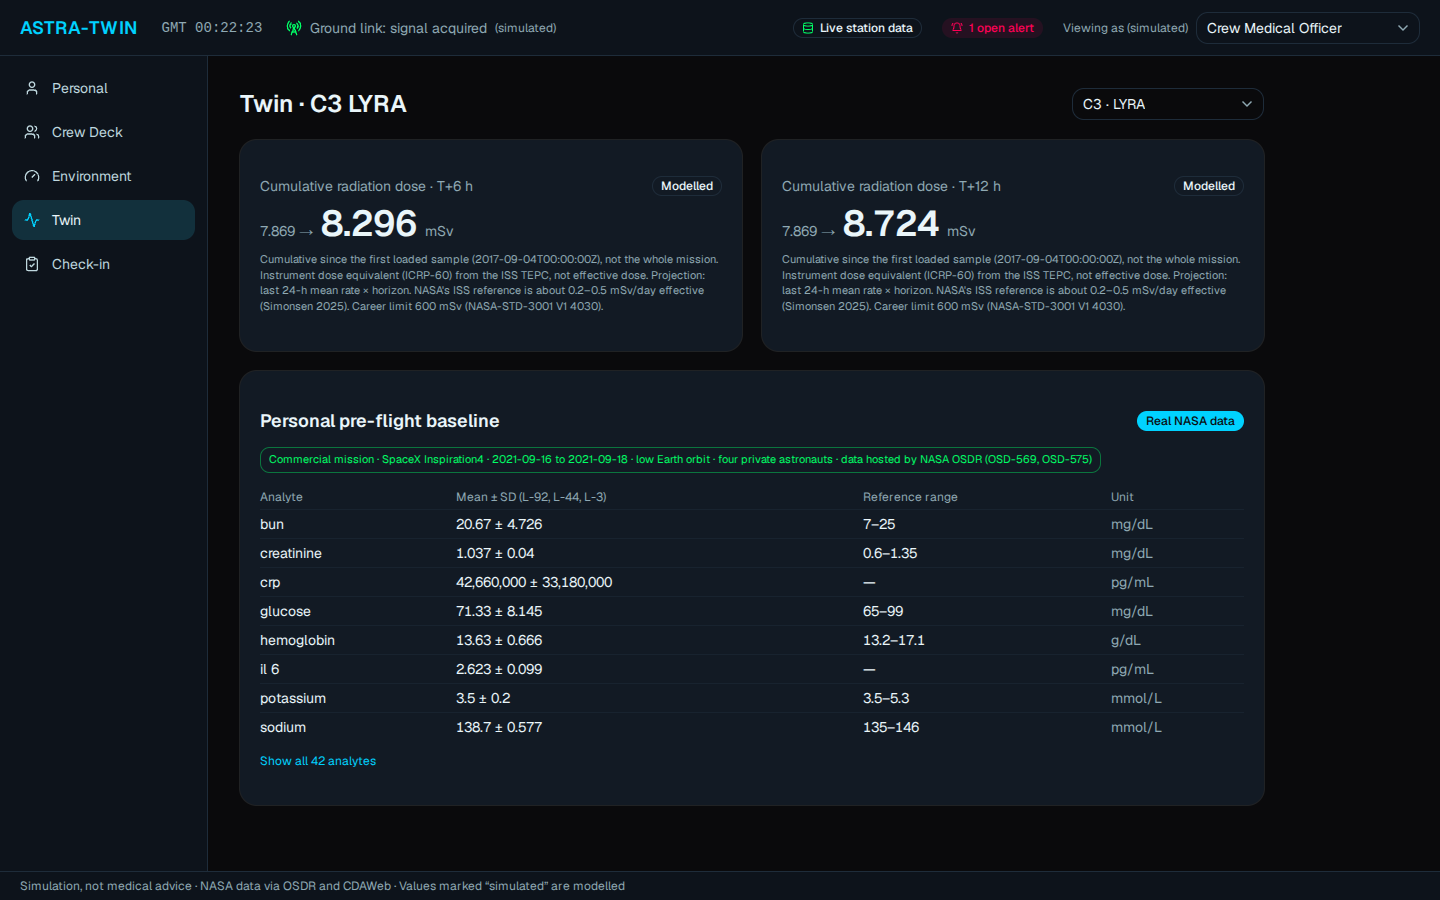
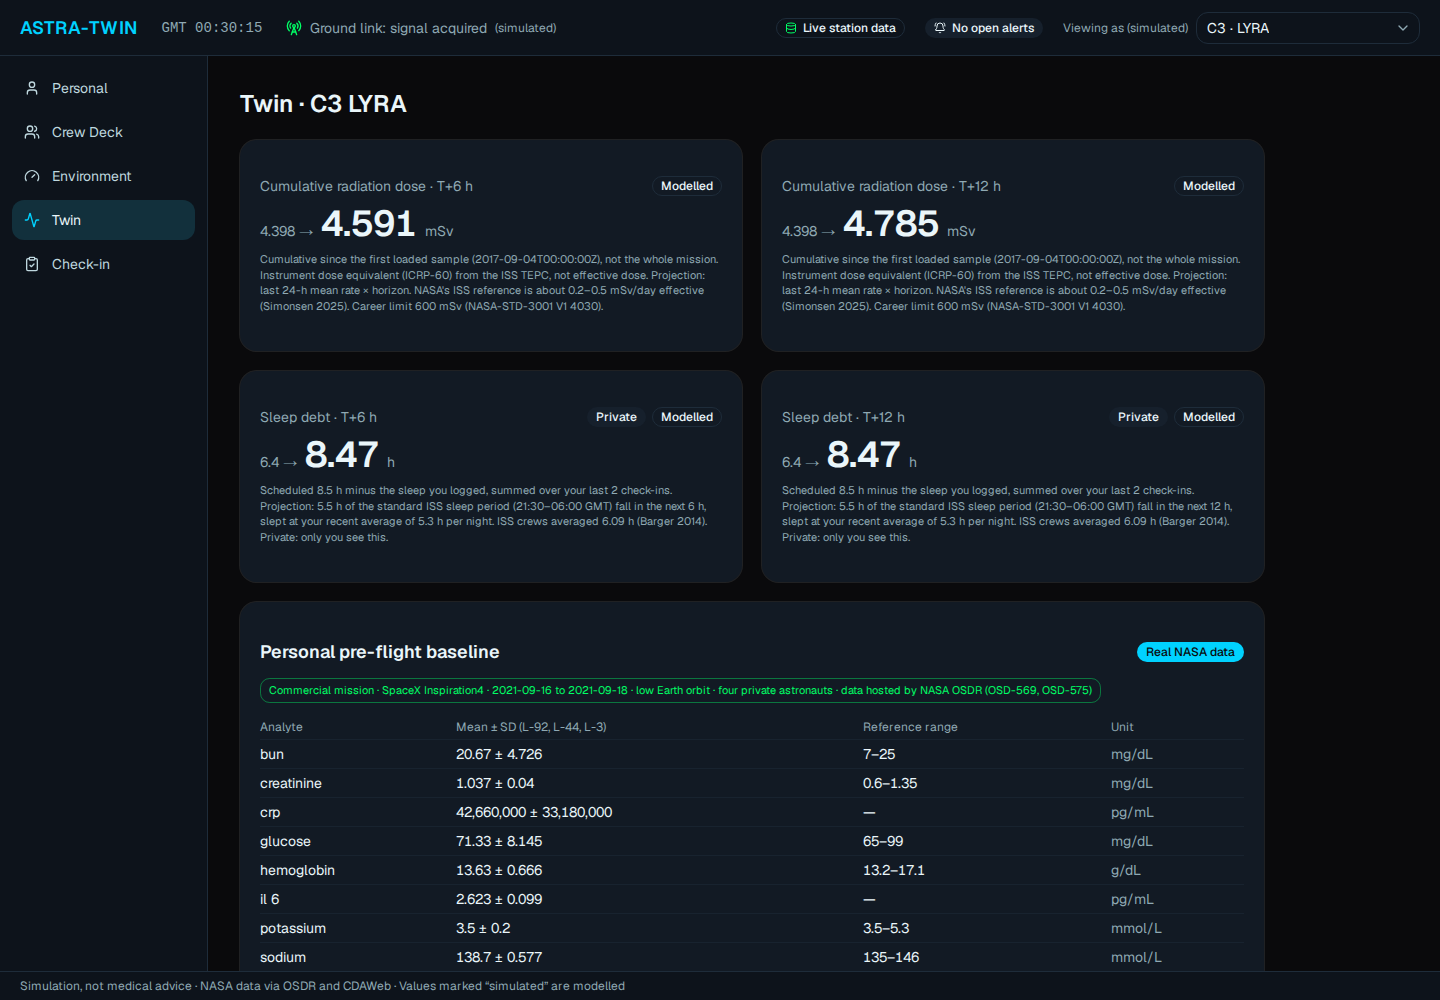
feat: private sleep-debt forecast in the Earth Twin (#63)
Sleep debt from the astronaut's own check-ins (scheduled 8.5 h vs logged sleep, last 7 check-ins), projected over the standard ISS sleep period 21:30-06:00 GMT at the recent average (Jones 2022; Barger 2014). Forecast models name their data kind; the forecasts route returns only the kinds the viewer may see, so sleep debt is SELF only. Closes #62.

diff --git a/frontend/src/screens/TwinScreen.tsx b/frontend/src/screens/TwinScreen.tsx
@@ -8,10 +8,18 @@ import { Select, SelectContent, SelectItem, SelectTrigger, SelectValue } from "@
 /** Analytes shown first; the rest are behind "all analytes". */
 const KEY_ANALYTES = ["glucose", "sodium", "potassium", "bun", "creatinine", "hemoglobin", "crp", "il_6"];
 
+/** Card title per forecast metric (backend twin models, BACKEND §3.2). */
+const FORECAST_TITLE: Record<string, string> = {
+  cumulative_dose: "Cumulative radiation dose",
+  sleep_debt: "Sleep debt",
+};
+/** Forecasts built from private check-ins: only the astronaut receives them. */
+const PRIVATE_METRICS = new Set(["sleep_debt"]);
+
 /** Four significant digits, thousands separated: 42656700 → 42,660,000. */
 const num = (v: number) => new Intl.NumberFormat("en-US", { maximumSignificantDigits: 4 }).format(v);
 
-/** Earth Twin: T+6 / T+12 forecasts (labelled modelled) and the personal pre-flight baseline. */
+/** Earth Twin: T+6 / T+12 forecasts (labelled modelled; sleep debt only for the astronaut) and the personal pre-flight baseline. */
 export function TwinScreen({ role, crew, station }: { role: ViewerRole; crew: CrewMember[]; station: StationView | null }) {
   const [picked, setPicked] = useState("C3");
   const crewId = role.kind === "astronaut" ? role.crewId : picked;
@@ -80,8 +88,13 @@ export function TwinScreen({ role, crew, station }: { role: ViewerRole; crew: Cr
           <Card key={`${f.metric}-${f.horizonHours}`}>
             <CardContent className="flex flex-col gap-2 p-5">
               <div className="flex items-center justify-between">
-                <p className="text-sm text-muted-foreground">Cumulative radiation dose · T+{f.horizonHours} h</p>
-                <Badge variant="outline">Modelled</Badge>
+                <p className="text-sm text-muted-foreground">
+                  {FORECAST_TITLE[f.metric] ?? f.metric.replace(/_/g, " ")} · T+{f.horizonHours} h
+                </p>
+                <div className="flex gap-1.5">
+                  {PRIVATE_METRICS.has(f.metric) && <Badge variant="secondary">Private</Badge>}
+                  <Badge variant="outline">Modelled</Badge>
+                </div>
               </div>
               <p className="flex items-baseline gap-2 tabular-nums">
                 <span className="text-sm text-muted-foreground">{f.points[0]?.value} →</span>

diff --git a/backend/api/src/main/java/astratwin/twin/SleepDebtModel.java b/backend/api/src/main/java/astratwin/twin/SleepDebtModel.java
@@ -1,0 +1,88 @@
+package astratwin.twin;
+
+import astratwin.domain.CheckIn;
+import astratwin.domain.CrewMember;
+import astratwin.domain.DataKind;
+import astratwin.domain.Forecast;
+import astratwin.domain.Forecast.ForecastPoint;
+import java.time.Duration;
+import java.time.Instant;
+import java.time.LocalDate;
+import java.time.LocalTime;
+import java.time.ZoneOffset;
+import java.util.List;
+import java.util.Locale;
+import java.util.Optional;
+
+/**
+ * Sleep debt (BACKEND §3.2): the scheduled 8.5 h per night minus the sleep logged in the
+ * astronaut's own check-ins, summed over the last 7 check-ins. The projection counts the part of
+ * the standard ISS sleep period (21:30–06:00 GMT, Jones 2022) that falls inside the horizon and
+ * assumes it is slept at the astronaut's recent average. Built from check-ins, so it is
+ * psychological data: only the astronaut sees it (BACKEND §6).
+ */
+public final class SleepDebtModel implements ForecastModel {
+    static final double SCHEDULED_HOURS = 8.5;
+    static final LocalTime SLEEP_START_GMT = LocalTime.of(21, 30);
+    static final int WINDOW = 7;
+    static final String SOURCE = "Your check-ins; Jones 2022, Sleep 45(3) zsac006 (ISS sleep period 21:30–06:00 GMT, "
+            + "8.5 h); Barger 2014, Lancet Neurol 13:904 (ISS mean 6.09 h)";
+
+    @Override
+    public String metric() {
+        return "sleep_debt";
+    }
+
+    @Override
+    public DataKind kind() {
+        return DataKind.PSYCH;
+    }
+
+    @Override
+    public Optional<Forecast> forecast(TwinContext context, CrewMember member, int horizonHours) {
+        List<CheckIn> mine = context.checkIns().stream().filter(c -> c.crewId().equals(member.id())).toList();
+        if (mine.isEmpty()) {
+            return Optional.empty();
+        }
+        List<CheckIn> recent = mine.subList(Math.max(0, mine.size() - WINDOW), mine.size());
+        double debt = recent.stream().mapToDouble(c -> Math.max(0, SCHEDULED_HOURS - c.sleepHours())).sum();
+        double average = recent.stream().mapToDouble(CheckIn::sleepHours).average().orElse(SCHEDULED_HOURS);
+        double shortfall = Math.max(0, 1 - average / SCHEDULED_HOURS);
+        Instant now = context.now();
+        double scheduled = scheduledSleepHours(now, now.plus(Duration.ofHours(horizonHours)));
+        double later = debt + scheduled * shortfall;
+        List<ForecastPoint> points = List.of(new ForecastPoint("T+0", round(debt)),
+                new ForecastPoint("T+" + horizonHours, round(later)));
+        String evidence = "Scheduled 8.5 h minus the sleep you logged, summed over your last " + recent.size()
+                + (recent.size() == 1 ? " check-in" : " check-ins") + ". Projection: " + fmt(scheduled)
+                + " h of the standard ISS sleep period (21:30–06:00 GMT) fall in the next " + horizonHours
+                + " h, slept at your recent average of " + fmt(average) + " h per night. ISS crews averaged 6.09 h "
+                + "(Barger 2014). Private: only you see this.";
+        return Optional.of(new Forecast(member.id(), horizonHours, metric(), "h", points, "modelled", evidence, SOURCE));
+    }
+
+    /** Hours of the scheduled sleep period (21:30–06:00 GMT every night) inside [from, to). */
+    public static double scheduledSleepHours(Instant from, Instant to) {
+        long seconds = 0;
+        LocalDate last = to.atZone(ZoneOffset.UTC).toLocalDate();
+        for (LocalDate day = from.atZone(ZoneOffset.UTC).toLocalDate().minusDays(1); !day.isAfter(last);
+                day = day.plusDays(1)) {
+            Instant start = day.atTime(SLEEP_START_GMT).toInstant(ZoneOffset.UTC);
+            Instant end = start.plus(Duration.ofMinutes(Math.round(SCHEDULED_HOURS * 60)));
+            Instant a = start.isAfter(from) ? start : from;
+            Instant b = end.isBefore(to) ? end : to;
+            if (b.isAfter(a)) {
+                seconds += Duration.between(a, b).toSeconds();
+            }
+        }
+        return seconds / 3600.0;
+    }
+
+    private static double round(double v) {
+        return Math.round(v * 100) / 100.0;
+    }
+
+    private static String fmt(double v) {
+        return String.format(Locale.ROOT, "%.1f", v);
+    }
+}

diff --git a/backend/api/src/test/java/astratwin/TwinTest.java b/backend/api/src/test/java/astratwin/TwinTest.java
@@ -1,0 +1,59 @@
+package astratwin;
+
+import astratwin.domain.CheckIn;
+import astratwin.domain.Forecast;
+import astratwin.domain.Viewer;
+import astratwin.privacy.ViewRequest;
+import astratwin.twin.SleepDebtModel;
+import astratwin.twin.TwinContext;
+import java.nio.file.Path;
+import java.time.Instant;
+import java.util.ArrayList;
+import java.util.List;
+import java.util.Map;
+
+/** Earth Twin forecasts (BACKEND §3.2) and who may see them (§6). */
+final class TwinTest {
+    private TwinTest() {
+    }
+
+    static void register(Map<String, TestRunner.Test> tests, Path cache) {
+        tests.put("twin: scheduled sleep period is 21:30–06:00 GMT", () -> {
+            Instant evening = Instant.parse("2026-11-15T20:00:00Z");
+            Check.equal(4.5, SleepDebtModel.scheduledSleepHours(evening, evening.plusSeconds(6 * 3600)), "20:00 +6 h");
+            Check.equal(8.5, SleepDebtModel.scheduledSleepHours(evening, evening.plusSeconds(12 * 3600)), "20:00 +12 h");
+            Instant morning = Instant.parse("2026-11-15T08:00:00Z");
+            Check.equal(0.0, SleepDebtModel.scheduledSleepHours(morning, morning.plusSeconds(6 * 3600)), "08:00 +6 h");
+            Instant night = Instant.parse("2026-11-15T03:00:00Z");
+            Check.equal(3.0, SleepDebtModel.scheduledSleepHours(night, night.plusSeconds(6 * 3600)), "03:00 +6 h");
+        });
+        tests.put("twin: sleep debt sums the last 7 check-ins and projects the recent average", () -> {
+            Station station = Station.load(cache);
+            List<CheckIn> checkIns = new ArrayList<>();
+            for (int day = 1; day <= 8; day++) {
+                // The first night is outside the 7-night window: its 0 h must not count.
+                checkIns.add(new CheckIn("C5", "2026-11-0" + day, 60, 40, 40, 10, day == 1 ? 0 : 6.5, "test"));
+            }
+            Instant evening = Instant.parse("2026-11-15T20:00:00Z");
+            Forecast f = new SleepDebtModel().forecast(new TwinContext(List.of(), List.of(), checkIns, evening),
+                    station.member("C5").orElseThrow(), 12).orElseThrow();
+            Check.equal("sleep_debt", f.metric(), "metric");
+            Check.equal("modelled", f.label(), "label");
+            Check.equal(14.0, f.points().get(0).value(), "T+0: 7 nights × (8.5 − 6.5) h");
+            Check.equal(16.0, f.points().get(1).value(), "T+12: one full night at 6.5 h adds 2 h");
+        });
+        tests.put("privacy: only the astronaut sees the sleep-debt forecast", () -> {
+            Station station = Station.load(cache);
+            List<Forecast> self = station.forecasts("C3", new ViewRequest(Viewer.SELF, "C3"));
+            Check.isTrue(self.stream().anyMatch(f -> f.metric().equals("sleep_debt")), "SELF must see its sleep debt");
+            Check.isTrue(self.stream().anyMatch(f -> f.metric().equals("cumulative_dose")), "SELF must see its dose");
+            Check.equal(2.9, self.stream().filter(f -> f.metric().equals("sleep_debt")).findFirst().orElseThrow()
+                    .points().get(0).value(), "C3 T+0 (8.5 − 5.6 h)");
+            for (Viewer viewer : new Viewer[] {Viewer.CMO, Viewer.GROUND, Viewer.EMERGENCY}) {
+                List<Forecast> other = station.forecasts("C3", new ViewRequest(viewer, null));
+                Check.isTrue(other.stream().noneMatch(f -> f.metric().equals("sleep_debt")), viewer + " sees sleep debt");
+                Check.isTrue(other.stream().anyMatch(f -> f.metric().equals("cumulative_dose")), viewer + " lost the dose");
+            }
+        });
+    }
+}

diff --git a/backend/api/src/main/java/astratwin/Station.java b/backend/api/src/main/java/astratwin/Station.java
@@ -48,6 +48,7 @@ import astratwin.store.MedicalCardRepository;
 import astratwin.store.ReadingRepository;
 import astratwin.twin.BaselineStatistics;
 import astratwin.twin.CumulativeDoseModel;
+import astratwin.twin.SleepDebtModel;
 import astratwin.twin.TwinContext;
 import astratwin.twin.TwinEngine;
 import java.io.IOException;
@@ -95,7 +96,7 @@ public final class Station {
         this.roster = new CrewRoster(baselines);
         this.rules = new RulesEngine(List.of(new CollapseRule(), new GlucoseRule(), new SpO2Rule(), new Co2Rule(),
                 new DoseRateRule(), new ZScoreRule(), new PsychTrendRule()));
-        this.twin = new TwinEngine(List.of(new CumulativeDoseModel()));
+        this.twin = new TwinEngine(List.of(new CumulativeDoseModel(), new SleepDebtModel()));
         this.privacy = PrivacyFilter.standard();
         this.scenarios = new ScenarioEngine(List.of(
                 // Same patient and roles as the frontend's proposeRoles(): CMOs lead and assist, then the
@@ -230,9 +231,11 @@ public final class Station {
         return baselines.forCrew(crewId);
     }
 
-    public synchronized List<Forecast> forecasts(String crewId) {
+    /** T+6/T+12 forecasts for one member; each model's data kind decides whether this viewer sees it. */
+    public synchronized List<Forecast> forecasts(String crewId, ViewRequest request) {
         CrewMember m = member(crewId).orElseThrow(() -> new NoSuchElementException("no crew member " + crewId));
-        return twin.forecasts(new TwinContext(environment.all(), readings.all(), Instant.now()), m);
+        TwinContext context = new TwinContext(environment.all(), readings.all(), checkIns.forCrew(crewId), Instant.now());
+        return twin.forecasts(context, m, kind -> allows(kind, request, crewId));
     }
 
     public synchronized List<Environment> doseSeries() {

diff --git a/backend/api/src/main/java/astratwin/twin/TwinEngine.java b/backend/api/src/main/java/astratwin/twin/TwinEngine.java
@@ -1,9 +1,11 @@
 package astratwin.twin;
 
 import astratwin.domain.CrewMember;
+import astratwin.domain.DataKind;
 import astratwin.domain.Forecast;
 import java.util.ArrayList;
 import java.util.List;
+import java.util.function.Predicate;
 
 /** Runs every forecast model for the T+6 and T+12 horizons (BACKEND §3.2). */
 public final class TwinEngine {
@@ -14,9 +16,13 @@ public final class TwinEngine {
         this.models = List.copyOf(models);
     }
 
-    public List<Forecast> forecasts(TwinContext context, CrewMember member) {
+    /** Forecasts of the models whose data kind the viewer may see; the others are not run. */
+    public List<Forecast> forecasts(TwinContext context, CrewMember member, Predicate<DataKind> visible) {
         List<Forecast> out = new ArrayList<>();
         for (ForecastModel model : models) {
+            if (!visible.test(model.kind())) {
+                continue;
+            }
             for (int horizon : HORIZONS) {
                 model.forecast(context, member, horizon).ifPresent(out::add);
             }

diff --git a/backend/api/src/main/java/astratwin/twin/ForecastModel.java b/backend/api/src/main/java/astratwin/twin/ForecastModel.java
@@ -1,12 +1,18 @@
 package astratwin.twin;
 
 import astratwin.domain.CrewMember;
+import astratwin.domain.DataKind;
 import astratwin.domain.Forecast;
 import java.util.Optional;
 
 /** One Earth Twin forecast (BACKEND §3.2). Every model labels its output "modelled". */
 public interface ForecastModel {
     String metric();
+
+    /** Which privacy policy decides who sees this forecast (BACKEND §6). */
+    default DataKind kind() {
+        return DataKind.VITALS;
+    }
 
     Optional<Forecast> forecast(TwinContext context, CrewMember member, int horizonHours);
 }

diff --git a/backend/api/src/main/java/astratwin/twin/TwinContext.java b/backend/api/src/main/java/astratwin/twin/TwinContext.java
@@ -1,10 +1,11 @@
 package astratwin.twin;
 
+import astratwin.domain.CheckIn;
 import astratwin.domain.Environment;
 import astratwin.domain.Reading;
 import java.time.Instant;
 import java.util.List;
 
-/** What a forecast model can see. */
-public record TwinContext(List<Environment> environment, List<Reading> readings, Instant now) {
+/** What a forecast model can see. Check-ins are the subject's own; only PSYCH-kind models read them. */
+public record TwinContext(List<Environment> environment, List<Reading> readings, List<CheckIn> checkIns, Instant now) {
 }

diff --git a/backend/api/src/main/java/astratwin/web/ApiServer.java b/backend/api/src/main/java/astratwin/web/ApiServer.java
@@ -252,7 +252,7 @@ public final class ApiServer {
                 }
                 yield switch (p[2]) {
                     case "baselines" -> station.baselines(p[1]);
-                    case "forecasts" -> station.forecasts(p[1]);
+                    case "forecasts" -> station.forecasts(p[1], request);
                     default -> throw new NoSuchElementException("no route " + ex.getRequestURI().getPath());
                 };
             }

diff --git a/backend/api/src/test/java/astratwin/TestRunner.java b/backend/api/src/test/java/astratwin/TestRunner.java
@@ -19,6 +19,7 @@ public final class TestRunner {
         RulesTest.register(tests);
         PrivacyTest.register(tests, cache);
         ScenarioTest.register(tests, cache);
+        TwinTest.register(tests, cache);
         StreamTest.register(tests, cache);
         SupportTest.register(tests, cache);
         IntegrationTest.register(tests, cache);

diff --git a/README.md b/README.md
@@ -12,14 +12,14 @@ NASA Space Apps Challenge 2026 · *Create Health Monitoring Software for Astrona
 | **Emergency: a crewmate collapses** | **Environment: real ISS radiation, Sep 2017** |
 | ![Full-screen emergency: who, where, roles and the microgravity CPR checklist](docs/screenshots/emergency.png) | ![Environment: cabin CO2, NASA ISS dose data with the solar particle event, NASA IMM risks](docs/screenshots/environment.png) |
 | **Earth twin: forecasts and baselines** | **Private support companion** |
-| ![Twin: T+6 and T+12 h dose forecasts and the personal pre-flight baseline](docs/screenshots/twin.png) | ![Support companion running on a local model](docs/screenshots/companion.png) |
+| ![Twin: T+6 and T+12 h dose and private sleep-debt forecasts, and the personal pre-flight baseline](docs/screenshots/twin.png) | ![Support companion running on a local model](docs/screenshots/companion.png) |
 
 ## What it does
 
 - **Personal twin.** A clickable body. Each region explains its values in plain language, with the person's own pre-flight baseline. Rule alerts light up the region, and each alert says what to do next and where the threshold comes from.
 - **Crew Deck and emergency.** The whole crew on a map of the ISS modules. In an emergency it switches to who, where and who does what, plus the microgravity CPR checklist. The ground is informed, not awaited.
 - **Environment.** Cabin CO2 limits, and real ISS radiation data, including the September 2017 solar particle event. The dose rule fires on Sep 11.
-- **Earth twin.** T+6 h and T+12 h forecasts, always labelled *modelled*.
+- **Earth twin.** T+6 h and T+12 h forecasts of radiation dose and sleep debt, always labelled *modelled*. Sleep debt comes from the astronaut's private check-ins, so only they see it.
 - **Privacy by design** (NASA-STD-3001 Vol 1, private medical and psychological communications). Each viewer sees only its tier: astronaut, CMO, ground, Crew Deck or emergency. Psychological check-ins and the support companion are private to the astronaut and never reach the Crew Deck.
 - **Private support companion.** A local language model (Ollama, phi3.5) with a safety gate and an output filter. It works offline and never leaves the station.
 - **Live telemetry** as a CSV stream, in and out.
@@ -48,7 +48,7 @@ backend/api/run.sh                 # app: http://127.0.0.1:8080/   demo console:
 
 - **Support companion (optional):** install [Ollama](https://ollama.com), then `ollama pull phi3.5`. Without it, a rule-based companion answers.
 - **Desktop app:** `cd frontend && npm run tauri build` (Tauri v2; prerequisites in [`docs/FRONTEND.md`](docs/FRONTEND.md)).
-- **Tests:** `backend/api/test.sh` (36 tests).
+- **Tests:** `backend/api/test.sh` (39 tests).
 - **Companion evaluation against the model:** `backend/api/eval.sh`; report in [`backend/api/eval/REPORT.md`](backend/api/eval/REPORT.md).
 
 ## How it is built

diff --git a/backend/README.md b/backend/README.md
@@ -27,7 +27,7 @@ Open **http://127.0.0.1:8080/demo/**:
 - **Add a reading:** e.g. glucose 52 for C3 → L3 alert; then approve or reject it as the CMO.
 - **Live telemetry (CSV stream):** *Start simulated* streams wearable values (heart rate, SpO2, temperature) for the whole crew every second; *Replay sample CSV* plays `data/stream/sample_telemetry.csv`, where C5's SpO2 drops and the rule fires. The panel reads the live CSV line by line; each run is also logged to `data/stream/out/`.
 - **Support companion (Self view only):** switch the viewer to *Self*, pick a crew member and write how you feel. Replies come from a local model through Ollama (`phi3.5`); crisis wording and medication questions get a fixed reply without the model; if Ollama is not running, a rule-based fallback answers. Setup: install Ollama, then `ollama pull phi3.5` (about 2.2 GB, once).
-- **Personal baseline & twin:** real pre-flight baselines with the commercial-mission tag (SpaceX Inspiration4, NASA OSDR), and the T+6/T+12 dose forecast.
+- **Personal baseline & twin:** real pre-flight baselines with the commercial-mission tag (SpaceX Inspiration4, NASA OSDR), and the T+6/T+12 dose and sleep-debt forecasts (sleep debt is built from check-ins, so only the astronaut sees it).
 
 Every value is labelled `real` or `simulated`. *Simulation — not medical advice.*
 
@@ -59,7 +59,7 @@ All routes take `?viewer=CMO|GROUND|CREW_DECK|EMERGENCY|SELF` (and `&crewId=C1` 
 | POST | `/api/readings` | body `{"crewId","metric","value","unit"}`; returns the station view |
 | POST | `/api/alerts/{id}/approve` · `/reject` | CMO or GROUND view only |
 | GET · POST | `/api/checkins` (body `{"mood","fatigue","stress","conflict","sleepHours"}`) | **SELF only**; low trend → private PPC prompt |
-| GET | `/api/crew/{id}/baselines` · `/forecasts` | personal baseline stats · T+6/T+12 forecasts (vitals policy) |
+| GET | `/api/crew/{id}/baselines` · `/forecasts` | personal baseline stats · T+6/T+12 forecasts (vitals policy; each forecast also uses its own data kind's policy, so sleep debt is SELF only) |
 | GET | `/api/environment/dose` | hourly ISS dose series currently loaded |
 | GET | `/api/imm` | NASA IMM LEO 6-month probabilities |
 | GET | `/api/stream/telemetry.csv` | live CSV stream (chunked; `&limit=N`); vitals policy per row, Crew Deck gets 403 |

diff --git a/docs/BACKEND.md b/docs/BACKEND.md
@@ -123,11 +123,15 @@ Labelled `"modelled"`. Each uses only sourced rates:
 
 | Forecast | Model | Source |
 |---|---|---|
-| Sleep debt | scheduled 8.5 h vs logged sleep; ISS mean 6.09 h | Barger 2014 |
+| Sleep debt | Scheduled 8.5 h minus the sleep logged in the astronaut's last 7 check-ins. Projection: the part of the standard ISS sleep period (21:30–06:00 GMT) inside the horizon, slept at the recent average; ISS mean 6.09 h. Built from check-ins, so it uses the **psych** policy (§6): only the astronaut sees it. *Built (#62).* | Jones 2022 (doi:10.1093/sleep/zsac006); Barger 2014 |
 | Hydration | 2.5 L/day intake target; loss ~0.13% body mass/h at rest; ≥2.5% mass loss → performance drop | `CLAUDE_HAFIZASI.md` §4.1 |
-| Cumulative dose | Sum of the TEPC dose equivalent (normal days 0.77–0.94 mSv/day in Sep 2017) against the 600 mSv career limit. Label it "instrument dose equivalent (ICRP-60), not effective dose"; show NASA's ISS reference 0.2–0.5 mSv/day effective next to it | CDAWeb `ISS_DOSANL_TEPC` (#30); Simonsen 2025 (NTRS 20250006168) |
+| Cumulative dose | *Built.* Sum of the TEPC dose equivalent (normal days 0.77–0.94 mSv/day in Sep 2017) against the 600 mSv career limit. Label it "instrument dose equivalent (ICRP-60), not effective dose"; show NASA's ISS reference 0.2–0.5 mSv/day effective next to it | CDAWeb `ISS_DOSANL_TEPC` (#30); Simonsen 2025 (NTRS 20250006168) |
 | Temperature drift | +~1 °C over ~2.5 months | Stahn 2017 |
 | Energy intake | ISS crews eat ~74–80% of estimated need | NTRS 20060049121; Smith 2005 |
+
+Each `ForecastModel` names the data kind it is built from (`kind()`, default vitals); the forecasts route returns only the forecasts whose kind the viewer may see (§6).
+
+Temperature drift is not a T+6/T+12 forecast: ~+1 °C over ~2.5 months is ~0.003 °C in 6 h, so the simulated temperature already includes the drift (37.4 °C) and the whole-body region cites Stahn 2017.
 
 When a new reading arrives, compare it with the previous forecast and store the error (for the "forecast vs actual" view).
 
